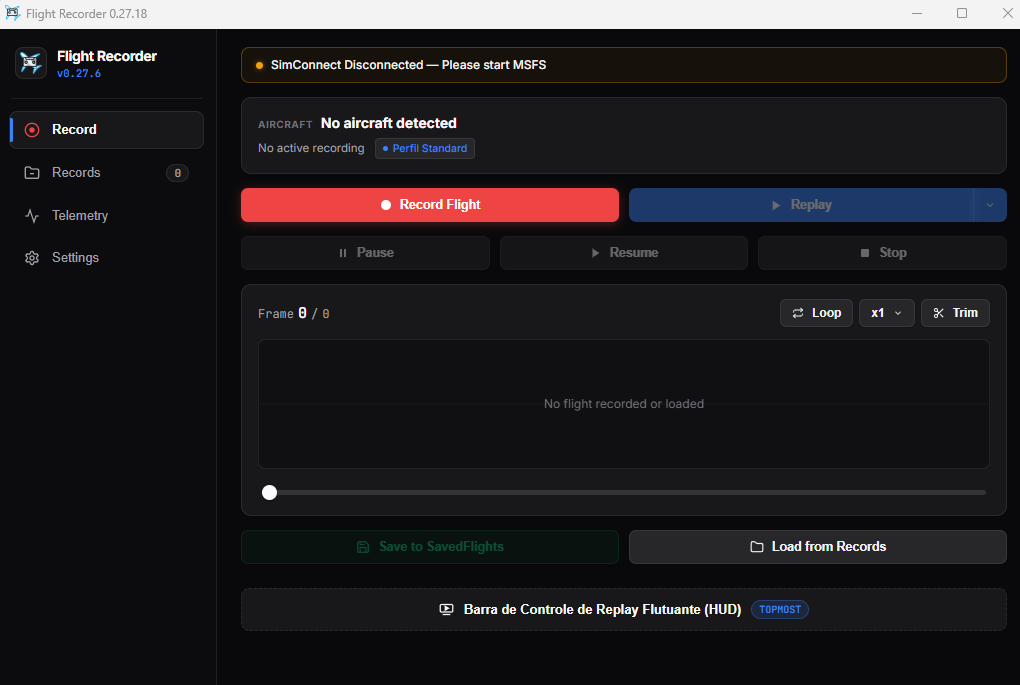
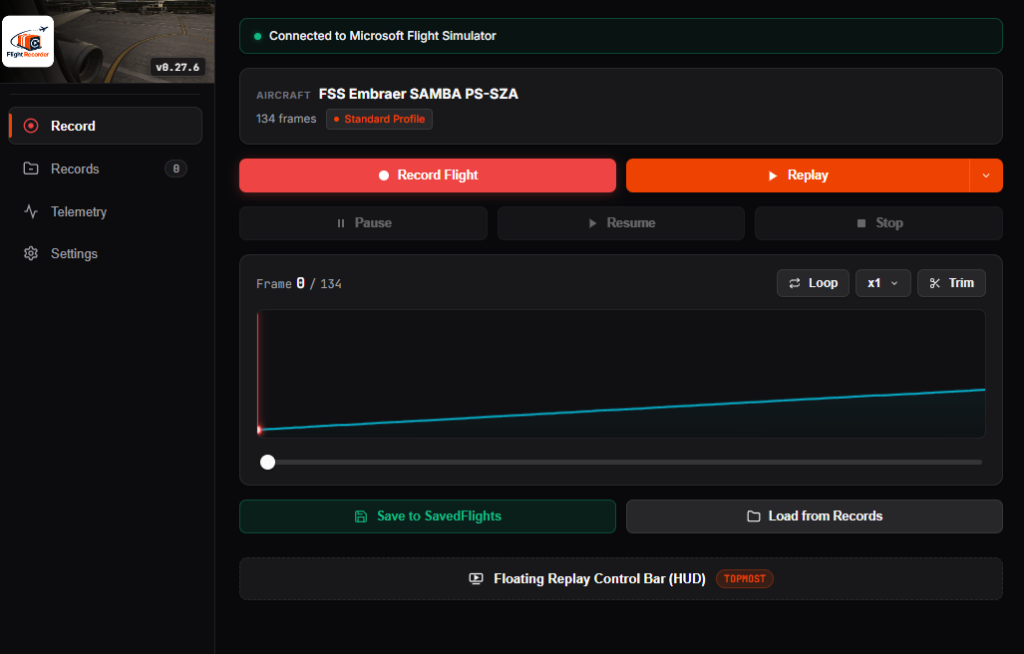
docs(readme): update app screenshot and document vpilot replay integration

diff --git a/README.md b/README.md
@@ -84,7 +84,19 @@
 - Em caso de queda de energia ou fechamento involuntário, o aplicativo identifica os dados na inicialização e oferece restauração com 1 clique.
 
 ### 🌐 Integração vPilot / VATSIM
-- Desconexão preventiva ou alerta do vPilot durante a reprodução para evitar conflitos com controladores e usuários na rede VATSIM/IVAO.
+- **Desconexão Automática Preventiva:** Ao iniciar um Replay ou acionar o Resume, o Flight Recorder comunica-se via Named Pipe diretamente com o plugin integrado do vPilot para desconectar sua aeronave da rede VATSIM de forma limpa e automática, evitando conflitos de física, "teletransportes" ou advertências de controladores de tráfego aéreo.
+- **Notificação no Chat do vPilot:** Exibe uma notificação personalizada no painel *Messages* com a cor oficial do aplicativo (`#EE4203`) e carimbo de data/hora UTC nativo:
+  ```
+  [HH:mm:ss] [Flight Recorder] Replay iniciado - Desconectado da rede.
+  ```
+- **100% Local e Privado:** A notificação é renderizada exclusivamente na janela do seu vPilot local, sem qualquer transmissão de pacotes ou mensagens pela frequência de rádio da rede.
+
+![Notificação vPilot](Assets/vPilot-Chat.png)
+
+### 🌍 Suporte Multilíngue (i18n)
+- Disponível nativamente em **Português (pt-BR)**, **Inglês (en)**, **Espanhol (es)** e **Francês (fr)**.
+- Seletor rápido de idiomas no cabeçalho com persistência automática da preferência do usuário.
+- Arquitetura modular e extensível (`locales/*.js`) para fácil adição de novas traduções.
 
 ### 📈 Exportação Avançada
 - **Exportar para CSV:** Ideal para análise pós-voo em softwares como Excel ou Google Sheets.
